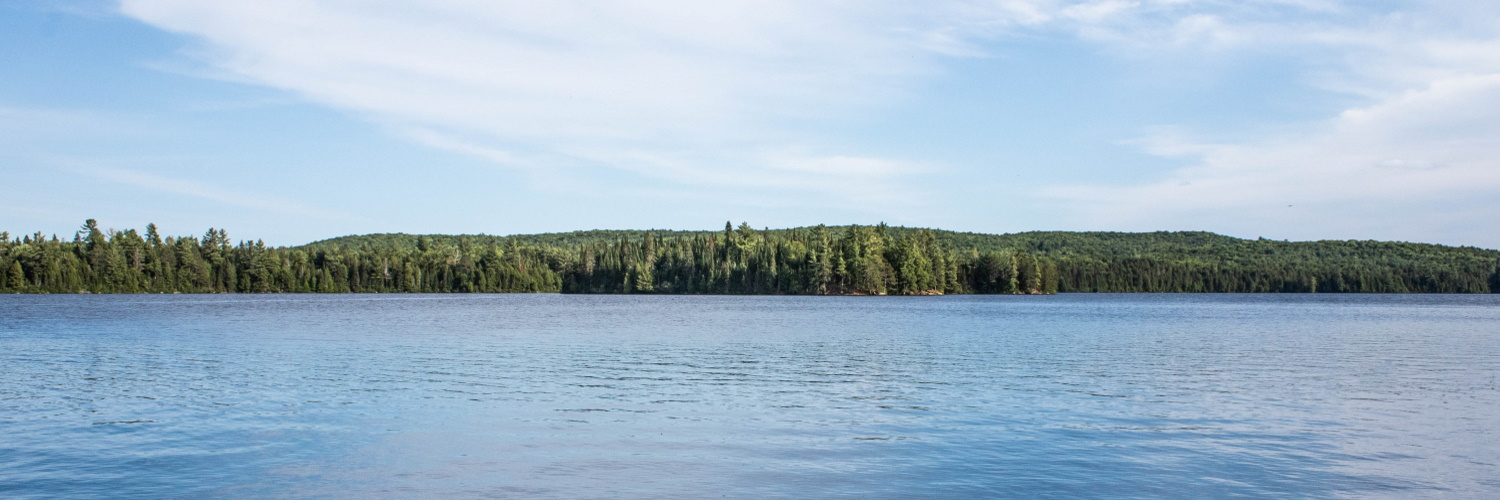
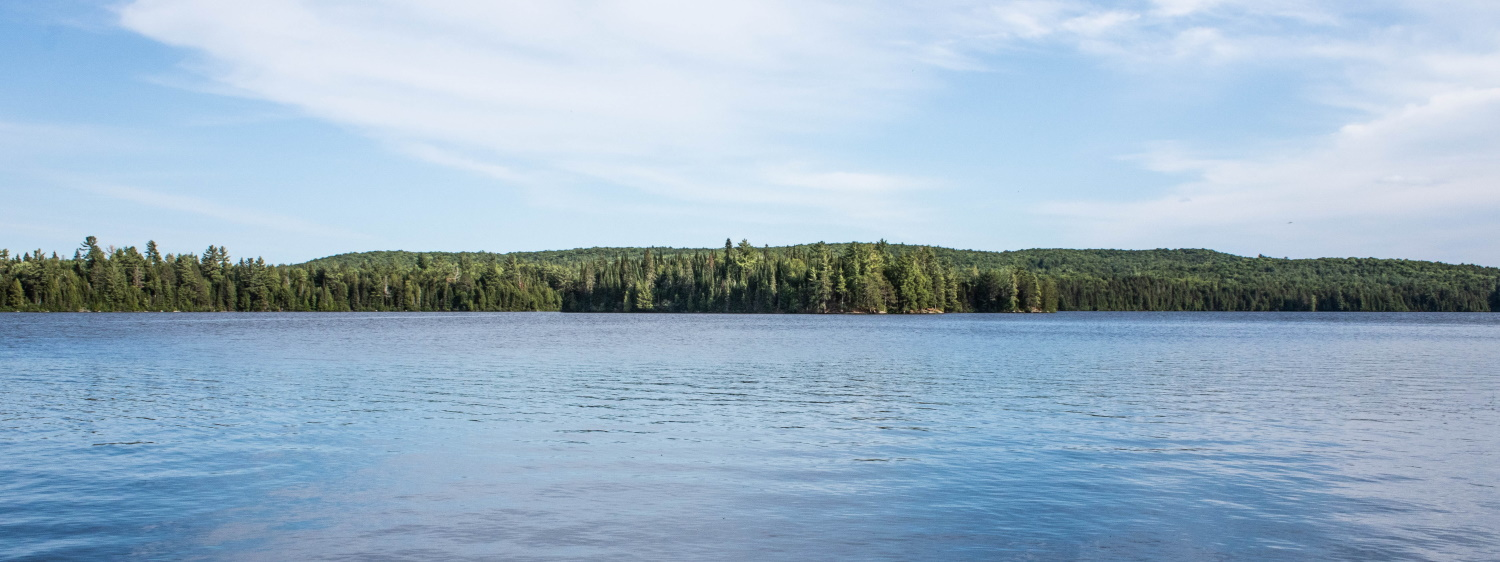
Updating header and working on responsive design

diff --git a/css/style.css b/css/style.css
@@ -46,10 +46,8 @@ body {
 /* Owner: Jessica Hobbins */
 
 .header {
-  width: 100%;
-  height: 500px;
+  min-height:350px;
   object-fit: fill;
-  padding-bottom: 120px;
 }
 
 /* Styling home page containers */
